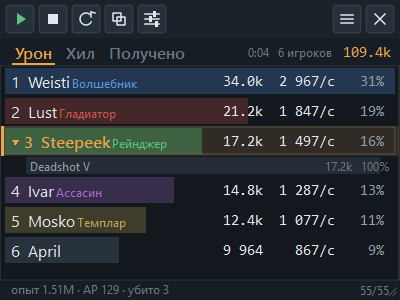
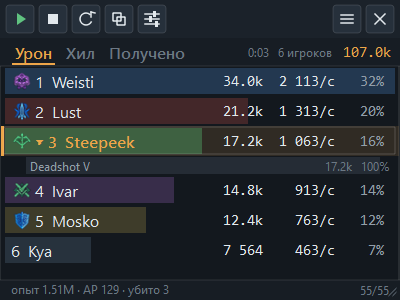
Иконки классов из папки пользователя
Метр умеет показывать иконку класса слева в строке. Иконки берутся из
папки, которую человек указывает в настройках: программа их не содержит,
никуда за ними не ходит и ничего не скачивает — это art NCSoft.

Подходит любой набор PNG, названный по классу (Ranger.png, Sorc.png,
Glad.png…) или по коду класса (RA.png). Имена сопоставляются без учёта
регистра, с псевдонимами под разные наборы. Кнопка «Найти набор» ищет уже
установленные наборы на диске.

Когда иконка есть, текстовое название класса не рисуется: класс и так
виден, а строка не теснится.

Почему не из клиента и не с сайта:

* Textures/ui/ui.pak, где лежат UI-иконки, на этом сервере зашифрован
  (OADTENC1). Паки с сигнатурой AF B4 FC FB — это ZIP с инвертированными
  сигнатурами (XOR 0xFF), каталог читается, но содержимое файлов
  зашифровано отдельно.
* AionCodex закрыт JS-защитой от ботов (вычисляемый хеш в куке __js_p_) и
  помечен noindex, noarchive — владелец явно против автоматического
  доступа. Обходить это незачем: результат всё равно нельзя было бы
  положить в репозиторий.

86 самопроверок, все проходят.

diff --git a/aionmeter/overlay.py b/aionmeter/overlay.py
@@ -37,6 +37,8 @@ from PySide6.QtGui import (QAction, QColor, QFont, QFontMetrics, QGuiApplication
                            QIcon, QPainter, QPainterPath, QPen, QPixmap, QPolygon)
 from PySide6.QtWidgets import QApplication, QMenu, QWidget
 
+from pathlib import Path
+
 from . import hotkeys as hk
 from . import skilldb
 
@@ -69,8 +71,50 @@ RED = QColor(232, 106, 106)
 ROW_SELF_BG = QColor(237, 165, 73, 34)
 BAR_SELF = QColor(237, 165, 73, 92)
 BAR_OTHER = QColor(120, 150, 180, 52)
+BAR_SKILL = QColor(120, 140, 165, 44)
+
 #: Полупрозрачные версии цветов классов для полос
-_CLASS_BAR: dict[str, QColor] = {}
+_CLASS_BAR: dict[tuple[str, int], QColor] = {}
+
+
+#: Кэш иконок классов: код -> QPixmap нужного размера или None
+_ICON_CACHE: dict[tuple[str, str, int], object] = {}
+_ICON_EXT = (".png", ".dds", ".bmp", ".jpg")
+
+
+def class_icon(icons_dir: str, code: str, size: int):
+    """Иконка класса из папки пользователя или None.
+
+    Ничего не скачиваем и ничего не кладём в репозиторий: иконки — это art
+    NCSoft. Человек указывает свою папку сам, файлы остаются у него.
+    """
+    if not icons_dir or not code:
+        return None
+    key = (icons_dir, code, size)
+    if key in _ICON_CACHE:
+        return _ICON_CACHE[key]
+    pm = None
+    folder = Path(icons_dir)
+    if folder.is_dir():
+        wanted = skilldb.icon_candidates(code)
+        by_stem = {}
+        try:
+            for f in folder.iterdir():
+                if f.suffix.lower() in _ICON_EXT:
+                    by_stem.setdefault(f.stem.lower(), f)
+        except OSError:
+            by_stem = {}
+        for name in wanted:
+            f = by_stem.get(name)
+            if f is None:
+                continue
+            loaded = QPixmap(str(f))
+            if not loaded.isNull():
+                pm = loaded.scaled(size, size, Qt.KeepAspectRatio,
+                                   Qt.SmoothTransformation)
+            break
+    _ICON_CACHE[key] = pm
+    return pm
 
 
 def class_colour(code: str, alpha: int = 255) -> QColor | None:
@@ -87,7 +131,7 @@ def class_colour(code: str, alpha: int = 255) -> QColor | None:
         c.setAlpha(alpha)
         _CLASS_BAR[key] = c
     return c
-BAR_SKILL = QColor(120, 140, 165, 44)
+
 
 METRIC_TABS = (("damage", "Урон"), ("heal", "Хил"), ("taken", "Получено"))
 METRIC_TITLE = {"damage": "Урон", "heal": "Хил", "taken": "Полученный урон"}
@@ -522,15 +566,23 @@ class Overlay(QWidget):
         p.setPen(ACCENT if is_self else TEXT)
         cols_w = sum(cw for _k, cw in self._columns(w))
         fm = QFontMetrics(font)
+        icon_size = self.row_h - 8
+        icon = class_icon(self.cfg.get("icons_dir", ""), r.get("cls", ""), icon_size)
+        x_name = 11
+        if icon is not None:
+            p.drawPixmap(11, y + 4, icon)
+            x_name = 13 + icon.width()
+
         mark = "▾ " if self.selected == r["name"] else ""
         name = fm.elidedText(f"{mark}{i + 1}  {r['display']}", Qt.ElideRight,
-                             max(60, w - 20 - cols_w))
-        p.drawText(11, y + self.row_h - 8, name)
-        # Метка класса сразу за именем, тем же цветом, что и полоса
-        cls_colour = class_colour(r.get("cls", ""))
+                             max(60, w - 9 - x_name - cols_w))
+        p.drawText(x_name, y + self.row_h - 8, name)
+        # Название класса — только если иконки нет: иначе строка теснится,
+        # а класс и так виден.
+        cls_colour = None if icon is not None else class_colour(r.get("cls", ""))
         if cls_colour and r.get("cls_name"):
-            x_cls = 13 + fm.horizontalAdvance(name)
-            room = w - 20 - cols_w - x_cls
+            x_cls = x_name + 2 + fm.horizontalAdvance(name)
+            room = w - 12 - cols_w - x_cls
             if room > 30:
                 p.setFont(self.font_small)
                 p.setPen(cls_colour)

diff --git a/aionmeter/settings_dialog.py b/aionmeter/settings_dialog.py
@@ -163,6 +163,24 @@ class SettingsDialog(QDialog):
         self.cb_metric.setCurrentIndex(max(0, idx))
         form.addRow("Показывать", self.cb_metric)
 
+        self.ed_icons = QLineEdit(self.cfg.get("icons_dir", ""))
+        self.ed_icons.setPlaceholderText("пусто — без иконок, только цвет класса")
+        btn_icons = QPushButton("Обзор…")
+        btn_icons.clicked.connect(self._browse_icons)
+        btn_auto = QPushButton("Найти набор")
+        btn_auto.clicked.connect(self._autodetect_icons)
+        row_ic = QHBoxLayout()
+        row_ic.addWidget(self.ed_icons, 1)
+        row_ic.addWidget(btn_icons)
+        row_ic.addWidget(btn_auto)
+        holder_ic = QWidget()
+        holder_ic.setLayout(row_ic)
+        form.addRow("Иконки классов", holder_ic)
+        form.addRow("", self._hint(
+            "Папка с PNG по имени класса: Ranger.png, Sorc.png, Cleric.png и так "
+            "далее. Программа иконок не содержит и не скачивает — это art NCSoft. "
+            "Кнопка «Найти набор» поищет уже установленные наборы на диске."))
+
         self.ch_loot = QCheckBox("Строка добычи внизу (опыт, AP, кинах, убийства)")
         self.ch_loot.setChecked(self.cfg.get("show_loot", True))
         form.addRow("", self.ch_loot)
@@ -253,6 +271,23 @@ class SettingsDialog(QDialog):
         lab.setWordWrap(True)
         return lab
 
+    def _browse_icons(self) -> None:
+        start = self.ed_icons.text() or str(Path.home())
+        path = QFileDialog.getExistingDirectory(self, "Папка с иконками классов", start)
+        if path:
+            self.ed_icons.setText(path)
+
+    def _autodetect_icons(self) -> None:
+        """Ищет уже установленные наборы иконок в известных местах."""
+        import os
+        appdata = os.environ.get("APPDATA", "")
+        for candidate in (Path(appdata) / "Aion Rainmeter" / "UI" / "defaulticons",
+                          Path(appdata) / "AionMeter" / "icons"):
+            if candidate.is_dir() and any(candidate.glob("*.png")):
+                self.ed_icons.setText(str(candidate))
+                return
+        self.ed_icons.setPlaceholderText("наборов не найдено — укажите папку вручную")
+
     def _refresh_db_label(self) -> None:
         n = len(skilldb.load())
         self.lbl_db.setText(f"собрана, {n} скиллов" if n else "не собрана")
@@ -306,6 +341,7 @@ class SettingsDialog(QDialog):
         cfg["metric"] = self.cb_metric.currentData()
         cfg["transparent"] = self.ch_transparent.isChecked()
         cfg["show_loot"] = self.ch_loot.isChecked()
+        cfg["icons_dir"] = self.ed_icons.text().strip()
         cfg["columns"] = [k for k, ch in self.col_checks.items() if ch.isChecked()]
         cfg["opacity"] = self.sl_opacity.value() / 100
         cfg["font_size"] = self.sp_font.value()

diff --git a/tests.py b/tests.py
@@ -331,6 +331,17 @@ check("без скиллов класса нет", by_name["Cid"]["cls_name"], "
 check("код класса тоже в снимке", by_name["Ann"]["cls"], "RA")
 check("у каждого класса есть цвет",
       sorted(skilldb.CLASSES) == sorted(skilldb.COLOURS), True)
+check("у каждого класса есть имена файлов иконок",
+      sorted(skilldb.CLASSES) == sorted(skilldb.ICON_ALIASES), True)
+check("код класса всегда первый кандидат имени файла",
+      skilldb.icon_candidates("RA")[0], "ra")
+check("псевдонимы имён файлов — кортеж, а не строка",
+      all(isinstance(v, tuple) for v in skilldb.ICON_ALIASES.values()), True)
+# имена набора, который чаще всего оказывается у людей на диске
+_arm = {"glad", "templar", "sin", "ranger", "sorc", "sm",
+        "cleric", "chanter", "bard", "gunner", "aethertech"}
+check("типовой набор имён покрывает все классы",
+      all(_arm & set(skilldb.icon_candidates(c)) for c in skilldb.CLASSES), True)
 
 m18 = Meter(dict(DEFAULTS))
 m18.cfg["scope"] = "all"

diff --git a/aionmeter/skilldb.py b/aionmeter/skilldb.py
@@ -53,6 +53,31 @@ COLOURS: dict[str, str] = {
     "RI": "#8fa3b8",
 }
 
+#: Имена файлов иконок, под которыми класс встречается у разных наборов.
+#: Совпадение по имени файла без расширения, регистр не важен.
+ICON_ALIASES: dict[str, tuple[str, ...]] = {
+    "FI": ("glad", "gladiator", "fighter"),
+    "KN": ("templar", "knight"),
+    "AS": ("sin", "assassin"),
+    "RA": ("ranger", "archer"),
+    "WI": ("sorc", "sorcerer", "wizard"),
+    "EL": ("sm", "spiritmaster", "summoner"),
+    "PR": ("cleric", "priest"),
+    "CH": ("chanter",),
+    "Ba": ("bard", "songweaver", "muse"),
+    "Gu": ("gunner", "gunslinger"),
+    "RI": ("aethertech", "rider", "technist"),
+}
+
+
+def icon_candidates(code: str) -> tuple[str, ...]:
+    """Возможные имена файла иконки для класса, от точного к общему."""
+    aliases = ICON_ALIASES.get(code, ())
+    if isinstance(aliases, str):
+        aliases = (aliases,)
+    return (code.lower(),) + tuple(aliases)
+
+
 _ROW_RE = re.compile(
     r"<name>STR_SKILL_([A-Za-z0-9]+)_[^<]*</name>\s*<body>([^<]*)</body>")
 

diff --git a/aionmeter/config.py b/aionmeter/config.py
@@ -29,6 +29,7 @@ DEFAULTS: dict = {
     "merge_pets": True,          # урон питомцев приписывать владельцу
     "columns": ["dmg", "dps", "pct", "hits"],
     "max_rows": 12,
+    "icons_dir": "",             # папка с PNG иконок классов; пусто = без иконок
     "show_loot": True,          # строка внизу: опыт, AP, кинах, убийства
 
 

diff --git a/README.md b/README.md
@@ -63,11 +63,25 @@
 игроков определился без единого конфликтующего голоса. У тех, кто бьёт
 только автоатаками, класса не будет — имени скилла в логе нет.
 
+## Иконки классов
+
+Программа иконок не содержит и никуда за ними не ходит: это art NCSoft.
+Но она умеет брать их из папки, которую вы укажете в настройках — файлы
+остаются у вас.
+
+Подойдёт любой набор PNG, названный по классу: `Ranger.png`, `Sorc.png`,
+`Cleric.png`, `Glad.png`, `Templar.png`, `Sin.png`, `Sm.png`, `Chanter.png`,
+`Bard.png`, `gunner.png`, `Aethertech.png`. Можно назвать и по коду класса —
+`RA.png`, `WI.png` и так далее. Кнопка «Найти набор» поищет уже
+установленные наборы на диске.
+
+Без иконок класс всё равно виден: строка красится в его цвет.
+
 **Иконок скиллов не будет.** Они лежат в `Textures/ui/ui.pak`, а он на
-приватных серверах зашифрован (`OADTENC1`); у остальных паков зашифровано
-содержимое файлов. Плюс это art NCSoft — раздавать его вместе с программой
-нельзя. Вместо иконок используется цвет класса: так делают и Details!, и
-Skada, и читается это не хуже.
+приватных серверах зашифрован (`OADTENC1`); у паков с сигнатурой
+`AF B4 FC FB` — это ZIP с инвертированными сигнатурами — зашифровано
+содержимое файлов. Тянуть их со сторонних сайтов тоже не вариант: тот же
+AionCodex закрыт JS-защитой от ботов и помечен `noindex, noarchive`.
 
 ## Установка
 
